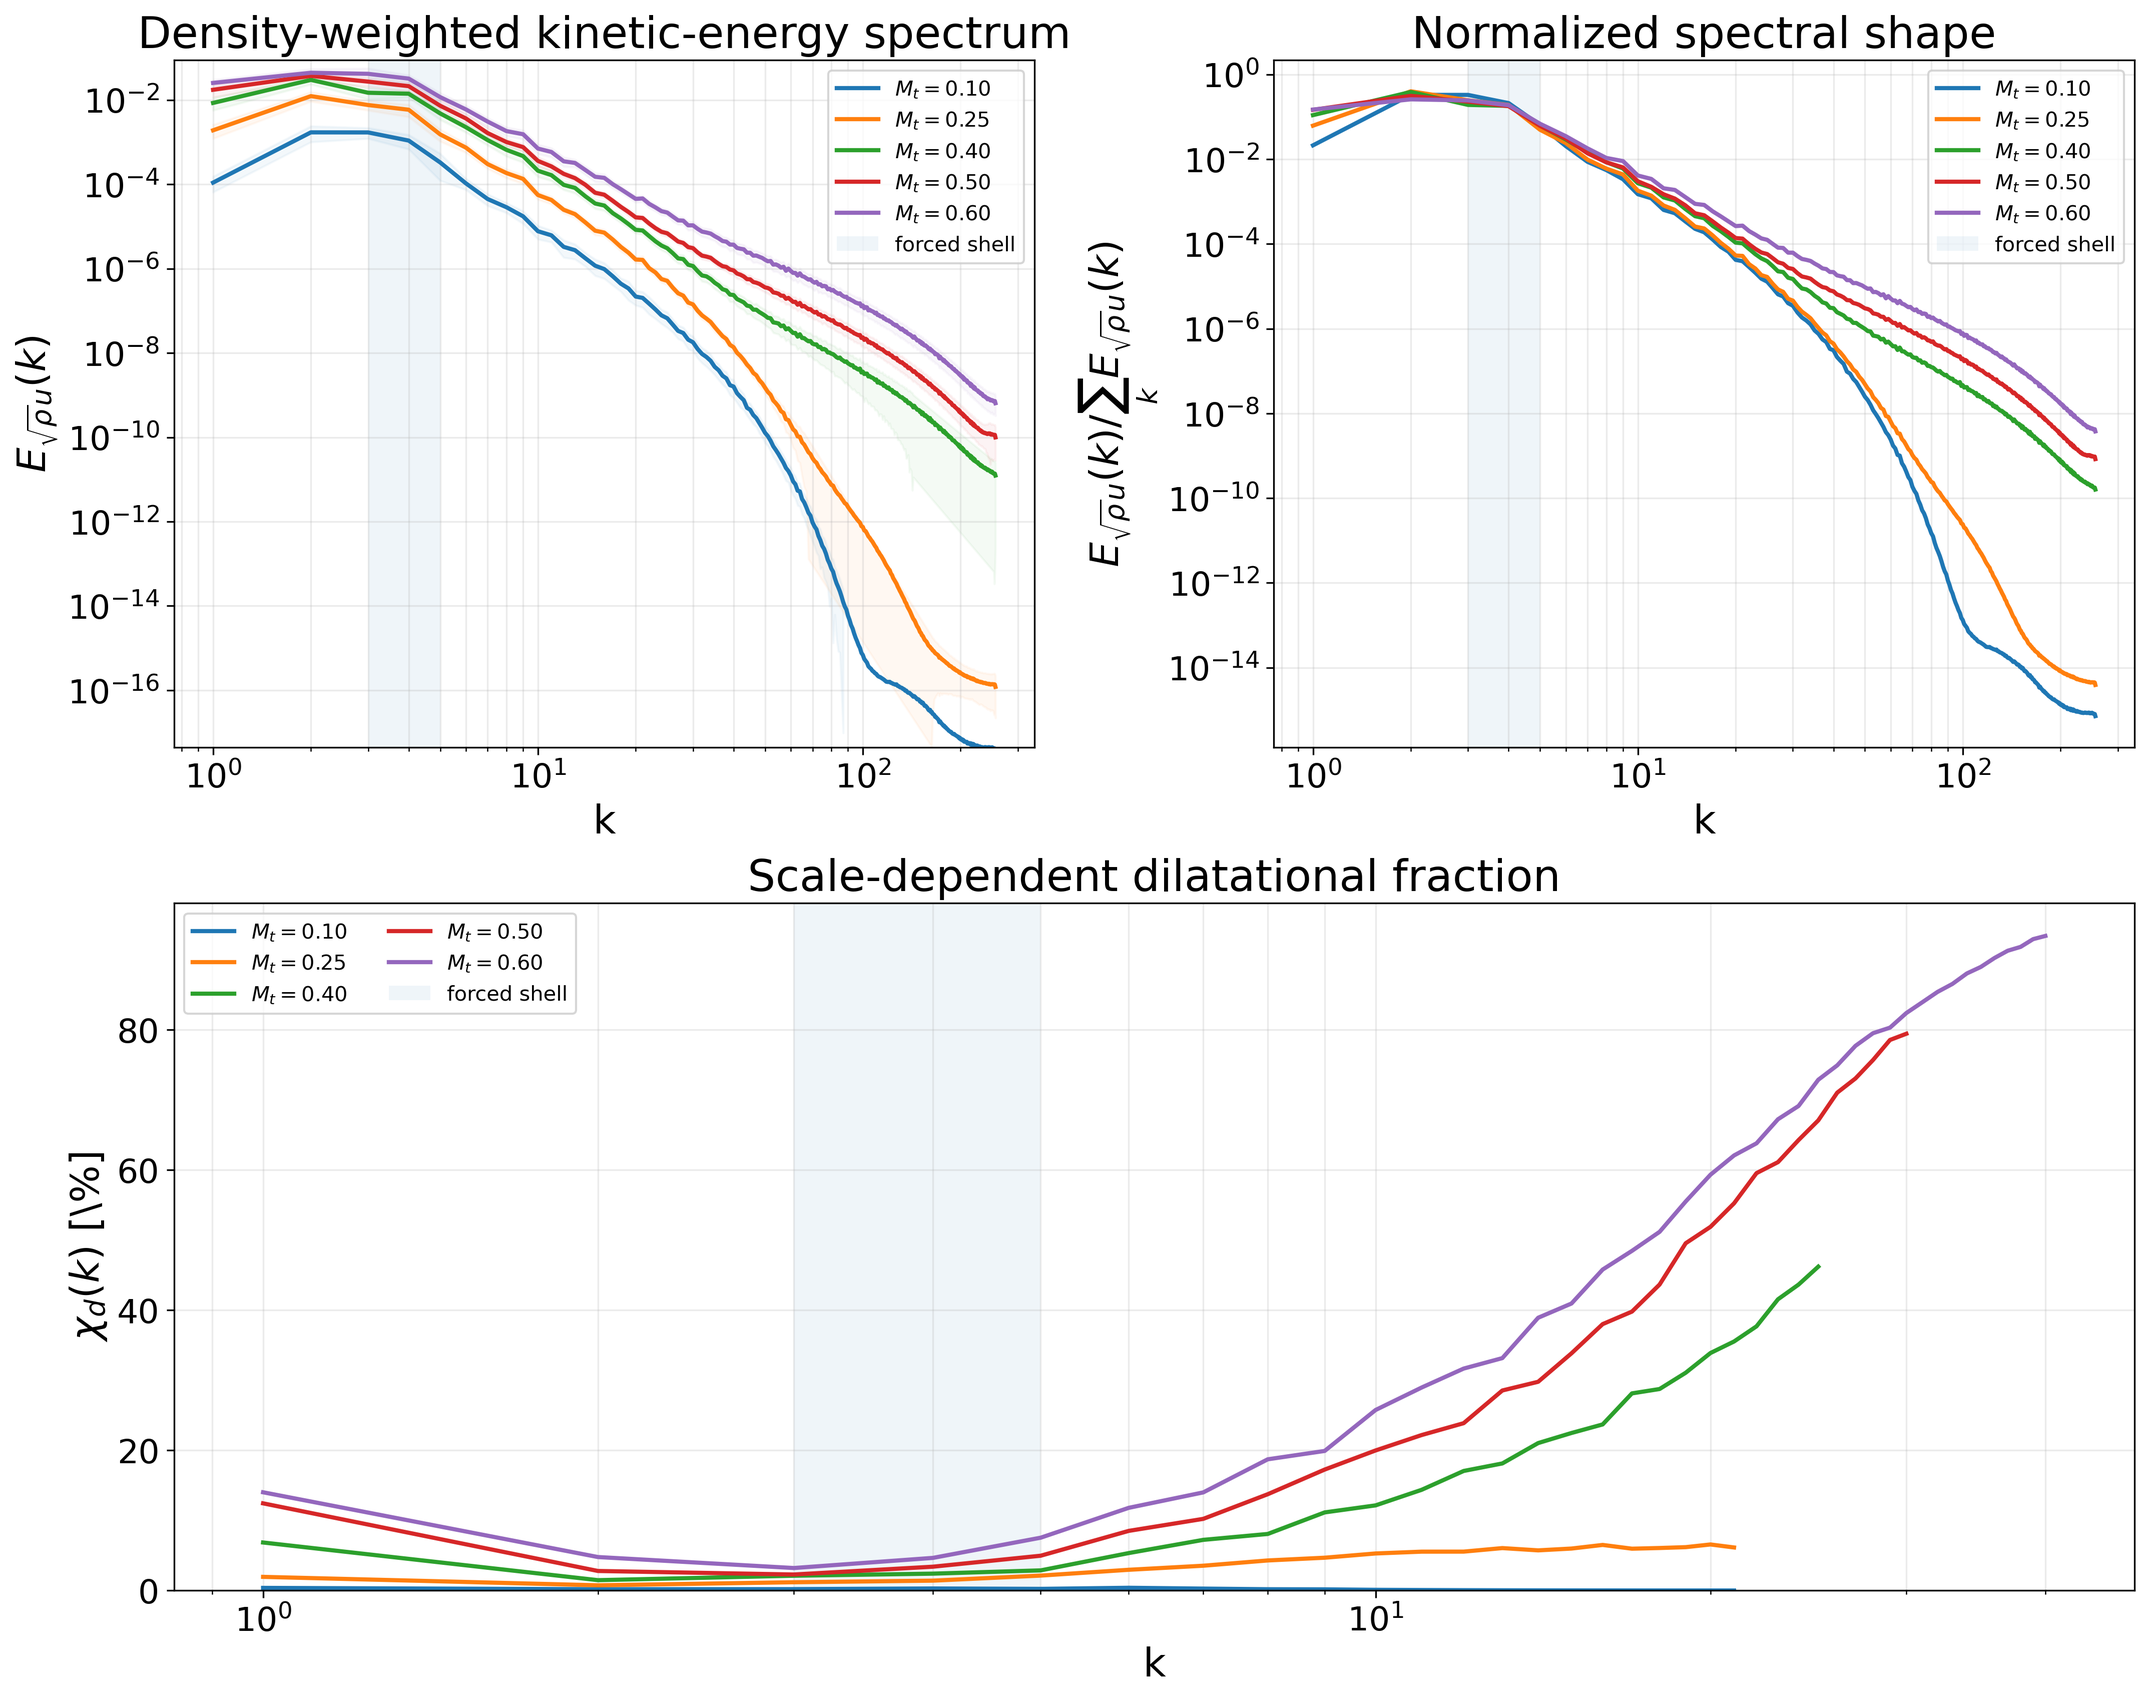
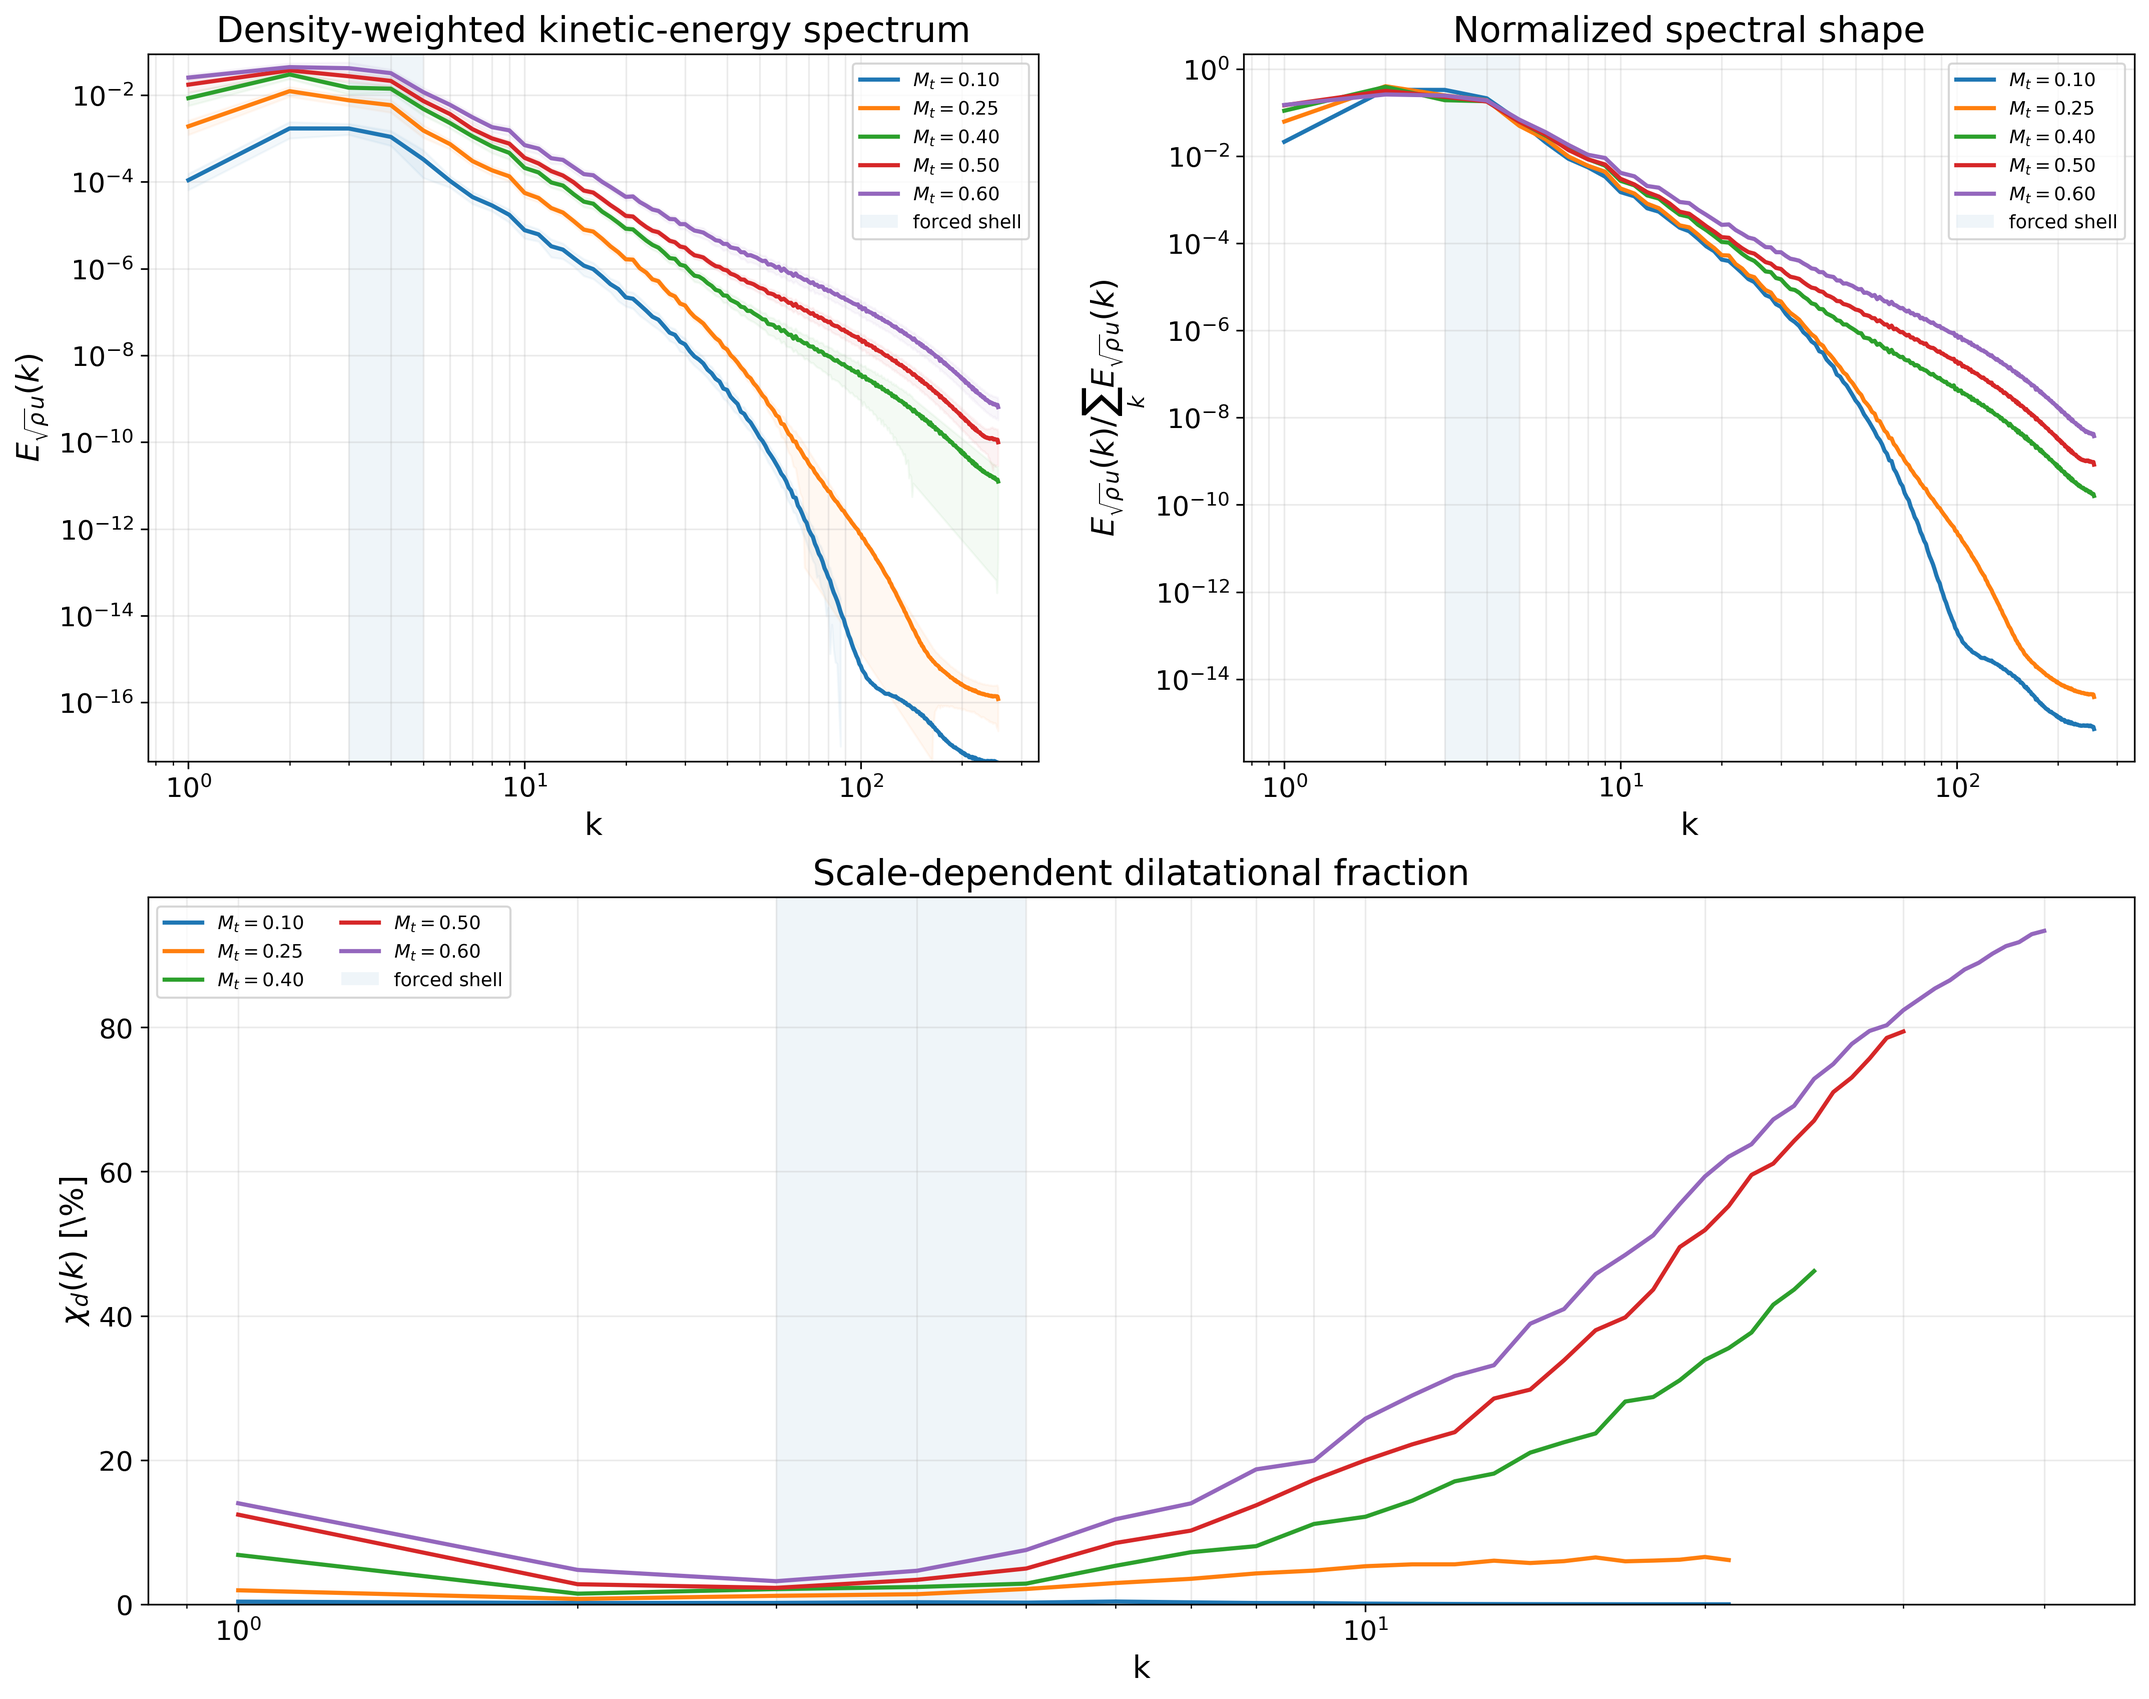
figure editing v3

diff --git a/scripts/plot_final_thesis_polished_final_tuned.py b/scripts/plot_final_thesis_polished_final_tuned.py
@@ -16,6 +16,7 @@ if __package__ is None or __package__ == "":
     sys.path.insert(0, str(Path(__file__).resolve().parents[1]))
 
 from OOP.postprocess.turnover import turnover_from_history
+from mpl_toolkits.axes_grid1 import make_axes_locatable
 
 MT_RE = re.compile(r"Mt0?(\d+)")
 
@@ -393,12 +394,11 @@ def plot_normalized_fields(cases, targets, output_dir, dpi):
     # A dedicated narrow colorbar column is used for each row.  Anchoring the
     # left and right image axes toward the center avoids the large empty gap
     # that equal-aspect images can otherwise create inside subplot cells.
-    fig = plt.figure(figsize=(7.25, 10.15))
+    fig = plt.figure(figsize=(7.8, 10.55))
     gs = fig.add_gridspec(
-        4, 3,
-        width_ratios=(1.0, 1.0, 0.045),
-        left=0.075, right=0.945, bottom=0.055, top=0.98,
-        wspace=0.16, hspace=0.42,
+        4, 2,
+        left=0.060, right=0.965, bottom=0.050, top=0.978,
+        wspace=0.10, hspace=0.36,
     )
     axes = np.empty((4, 2), dtype=object)
 
@@ -418,36 +418,45 @@ def plot_normalized_fields(cases, targets, output_dir, dpi):
             # physical panels at printed-page size.
             ax.set_title(
                 rf"{label}, $M_t={r['mt']:.2f}$",
-                fontsize=10,
-                pad=2.5,
+                fontsize=13.0,
+                pad=3.0,
+                y=1.005,
             )
             ax.tick_params(
                 axis="both",
                 which="both",
-                labelsize=9,
-                pad=1.0,
+                labelsize=11,
+                pad=0.8,
             )
 
             # Avoid repeating axis labels on every panel.  The y label is shown
             # only in the left column and the x label only in the bottom row.
             if col == 0:
-                ax.set_ylabel(r"$y$", fontsize=10, labelpad=1.0)
+                ax.set_ylabel(r"$y$", fontsize=11, labelpad=0.8)
             else:
                 ax.set_ylabel("")
 
             if row == 3:
-                ax.set_xlabel(r"$x$", fontsize=10, labelpad=1.0)
+                ax.set_xlabel(r"$x$", fontsize=11, labelpad=0.8)
             else:
                 ax.set_xlabel("")
+
+            # Add explicit x ticks so that the first visible labeled tick is 1
+            # rather than 2, improving readability in the thesis layout.
+            ax.set_xticks([1, 2, 3, 4, 5, 6])
 
             # Bring the two square panels in each row toward the center while
             # retaining enough horizontal separation for the subplot titles.
             ax.set_anchor("E" if col == 0 else "W")
 
         if row_image is not None:
-            cax = fig.add_subplot(gs[row, 2])
+            # Attach the colorbar directly to the right-hand panel so that it
+            # remains close to the field instead of occupying a separate
+            # GridSpec column at the far-right edge of the page.
+            divider = make_axes_locatable(axes[row, 1])
+            cax = divider.append_axes("right", size="4%", pad=0.08)
             cbar = fig.colorbar(row_image, cax=cax)
-            cbar.ax.tick_params(labelsize=9, pad=2)
+            cbar.ax.tick_params(labelsize=9.2, pad=1.0)
 
     # No overall title: the thesis caption supplies the context.  Keeping a
     # modest bottom margin leaves room for that caption once the figure is

diff --git a/scripts/plot_final_thesis_polished_balanced.py b/scripts/plot_final_thesis_polished_balanced.py
@@ -393,12 +393,12 @@ def plot_normalized_fields(cases, targets, output_dir, dpi):
     # A dedicated narrow colorbar column is used for each row.  Anchoring the
     # left and right image axes toward the center avoids the large empty gap
     # that equal-aspect images can otherwise create inside subplot cells.
-    fig = plt.figure(figsize=(7.25, 10.15))
+    fig = plt.figure(figsize=(7.6, 10.55))
     gs = fig.add_gridspec(
         4, 3,
-        width_ratios=(1.0, 1.0, 0.045),
-        left=0.075, right=0.945, bottom=0.055, top=0.98,
-        wspace=0.16, hspace=0.42,
+        width_ratios=(1.0, 1.0, 0.038),
+        left=0.065, right=0.955, bottom=0.050, top=0.978,
+        wspace=0.13, hspace=0.40,
     )
     axes = np.empty((4, 2), dtype=object)
 
@@ -418,25 +418,26 @@ def plot_normalized_fields(cases, targets, output_dir, dpi):
             # physical panels at printed-page size.
             ax.set_title(
                 rf"{label}, $M_t={r['mt']:.2f}$",
-                fontsize=10,
-                pad=2.5,
+                fontsize=9.4,
+                pad=3.0,
+                y=1.005,
             )
             ax.tick_params(
                 axis="both",
                 which="both",
-                labelsize=9,
-                pad=1.0,
+                labelsize=8.7,
+                pad=0.8,
             )
 
             # Avoid repeating axis labels on every panel.  The y label is shown
             # only in the left column and the x label only in the bottom row.
             if col == 0:
-                ax.set_ylabel(r"$y$", fontsize=10, labelpad=1.0)
+                ax.set_ylabel(r"$y$", fontsize=9.6, labelpad=0.8)
             else:
                 ax.set_ylabel("")
 
             if row == 3:
-                ax.set_xlabel(r"$x$", fontsize=10, labelpad=1.0)
+                ax.set_xlabel(r"$x$", fontsize=9.6, labelpad=0.8)
             else:
                 ax.set_xlabel("")
 
@@ -447,7 +448,7 @@ def plot_normalized_fields(cases, targets, output_dir, dpi):
         if row_image is not None:
             cax = fig.add_subplot(gs[row, 2])
             cbar = fig.colorbar(row_image, cax=cax)
-            cbar.ax.tick_params(labelsize=9, pad=2)
+            cbar.ax.tick_params(labelsize=8.7, pad=1.5)
 
     # No overall title: the thesis caption supplies the context.  Keeping a
     # modest bottom margin leaves room for that caption once the figure is

diff --git a/scripts/plot_final_thesis_polished_spacing_fix.py b/scripts/plot_final_thesis_polished_spacing_fix.py
@@ -393,12 +393,12 @@ def plot_normalized_fields(cases, targets, output_dir, dpi):
     # A dedicated narrow colorbar column is used for each row.  Anchoring the
     # left and right image axes toward the center avoids the large empty gap
     # that equal-aspect images can otherwise create inside subplot cells.
-    fig = plt.figure(figsize=(7.25, 10.15))
+    fig = plt.figure(figsize=(7.25, 10.85))
     gs = fig.add_gridspec(
         4, 3,
         width_ratios=(1.0, 1.0, 0.045),
-        left=0.075, right=0.945, bottom=0.055, top=0.98,
-        wspace=0.16, hspace=0.42,
+        left=0.075, right=0.945, bottom=0.055, top=0.975,
+        wspace=0.20, hspace=0.62,
     )
     axes = np.empty((4, 2), dtype=object)
 
@@ -418,25 +418,26 @@ def plot_normalized_fields(cases, targets, output_dir, dpi):
             # physical panels at printed-page size.
             ax.set_title(
                 rf"{label}, $M_t={r['mt']:.2f}$",
-                fontsize=10,
-                pad=2.5,
+                fontsize=8.6,
+                pad=4.0,
+                y=1.01,
             )
             ax.tick_params(
                 axis="both",
                 which="both",
-                labelsize=9,
-                pad=1.0,
+                labelsize=8.0,
+                pad=0.8,
             )
 
             # Avoid repeating axis labels on every panel.  The y label is shown
             # only in the left column and the x label only in the bottom row.
             if col == 0:
-                ax.set_ylabel(r"$y$", fontsize=10, labelpad=1.0)
+                ax.set_ylabel(r"$y$", fontsize=8.8, labelpad=0.8)
             else:
                 ax.set_ylabel("")
 
             if row == 3:
-                ax.set_xlabel(r"$x$", fontsize=10, labelpad=1.0)
+                ax.set_xlabel(r"$x$", fontsize=8.8, labelpad=0.8)
             else:
                 ax.set_xlabel("")
 
@@ -447,7 +448,7 @@ def plot_normalized_fields(cases, targets, output_dir, dpi):
         if row_image is not None:
             cax = fig.add_subplot(gs[row, 2])
             cbar = fig.colorbar(row_image, cax=cax)
-            cbar.ax.tick_params(labelsize=9, pad=2)
+            cbar.ax.tick_params(labelsize=8.0, pad=1.5)
 
     # No overall title: the thesis caption supplies the context.  Keeping a
     # modest bottom margin leaves room for that caption once the figure is
